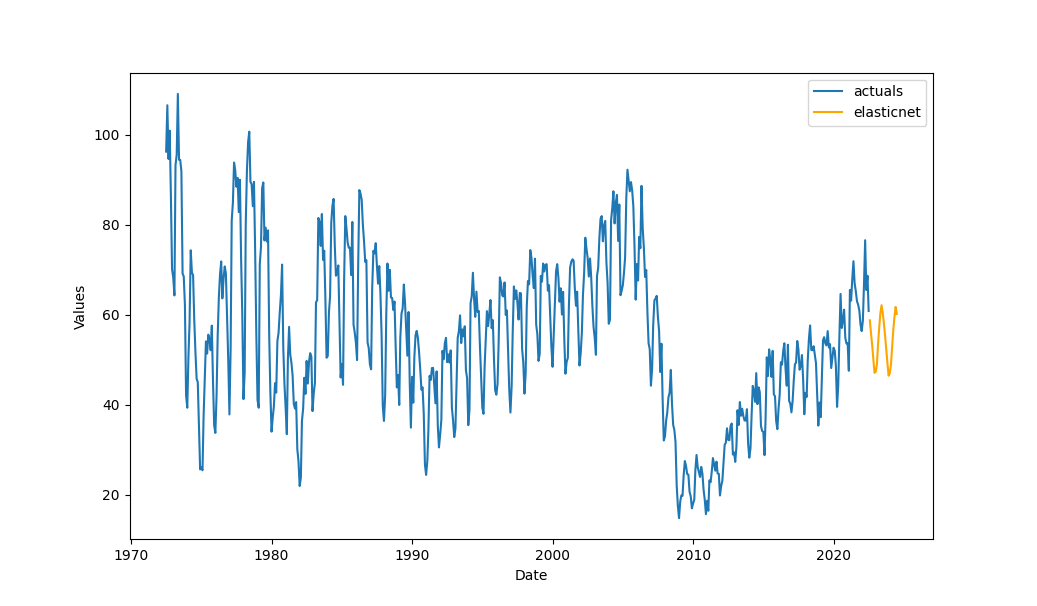
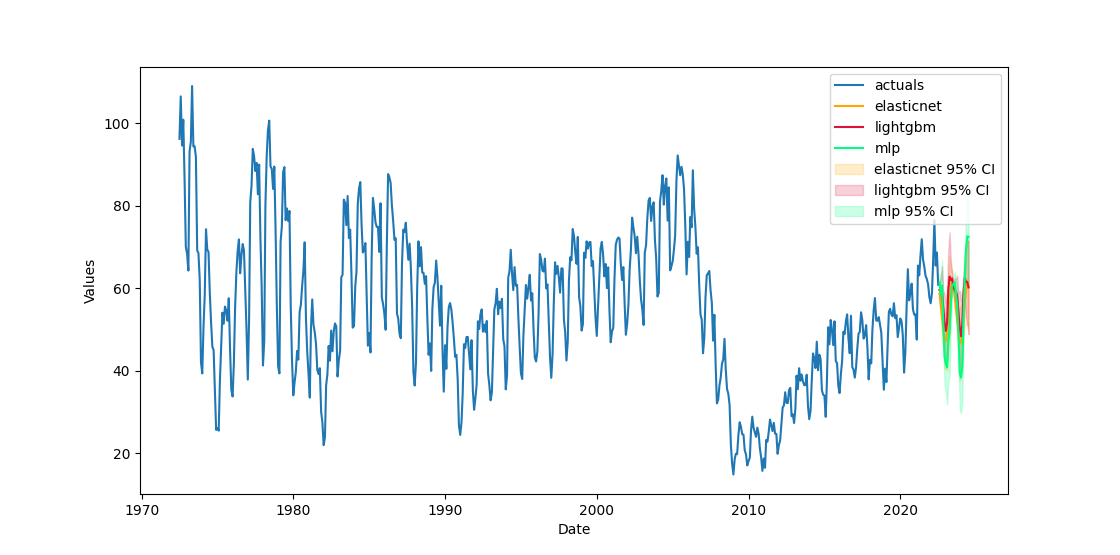
Updated readme example

diff --git a/README.md b/README.md
@@ -11,13 +11,18 @@ Scalecast is a light-weight modeling procedure, wrapper, and results container m
 The scalecast package was designed to address this situation and offer advanced machine learning models and experiments that can be applied, optimized, and validated quickly. Unlike many libraries, the predictions produced by scalecast are always dynamic by default, not averages of one-step forecasts, so you don't run into the situation where the estimator looks great on the test-set but can't generalize to real data. What you see is what you get, with no attempt to oversell results. If you download a library that looks like it's able to predict the COVID pandemic in your test-set, you probably have a one-step forecast happening under-the-hood. You can't predict the unpredictable, and you won't see such things with scalecast.  
 
 ```python
+import pandas_datareader as pdr
 from scalecast.Forecaster import Forecaster
 from scalecast.SeriesTransformer import SeriesTransformer
 from scalecast import GridGenerator
 import matplotlib.pyplot as plt
-import pandas_datareader as pdr
 
 GridGenerator.get_example_grids()
+models = (
+  'elasticnet',
+  'lightgbm',
+  'mlp',
+)
 
 df = pdr.get_data_fred(
   'HOUSTNSA',
@@ -42,14 +47,13 @@ f.add_covid19_regressor()
 f.auto_Xvar_select(cross_validate=True)
 f.determine_best_series_length()
 
-f.set_estimator('elasticnet')
-f.tune()
-f.auto_forecast()
+f.tune_test_forecast(models)
 
 f = transformer.DiffRevert(1)
 f = transformer.LogRevert()
 
-f.plot()
+f.reeval_cis() # expanding cis based on all model results
+f.plot(ci=True)
 plt.show()
 
 results = f.export(
